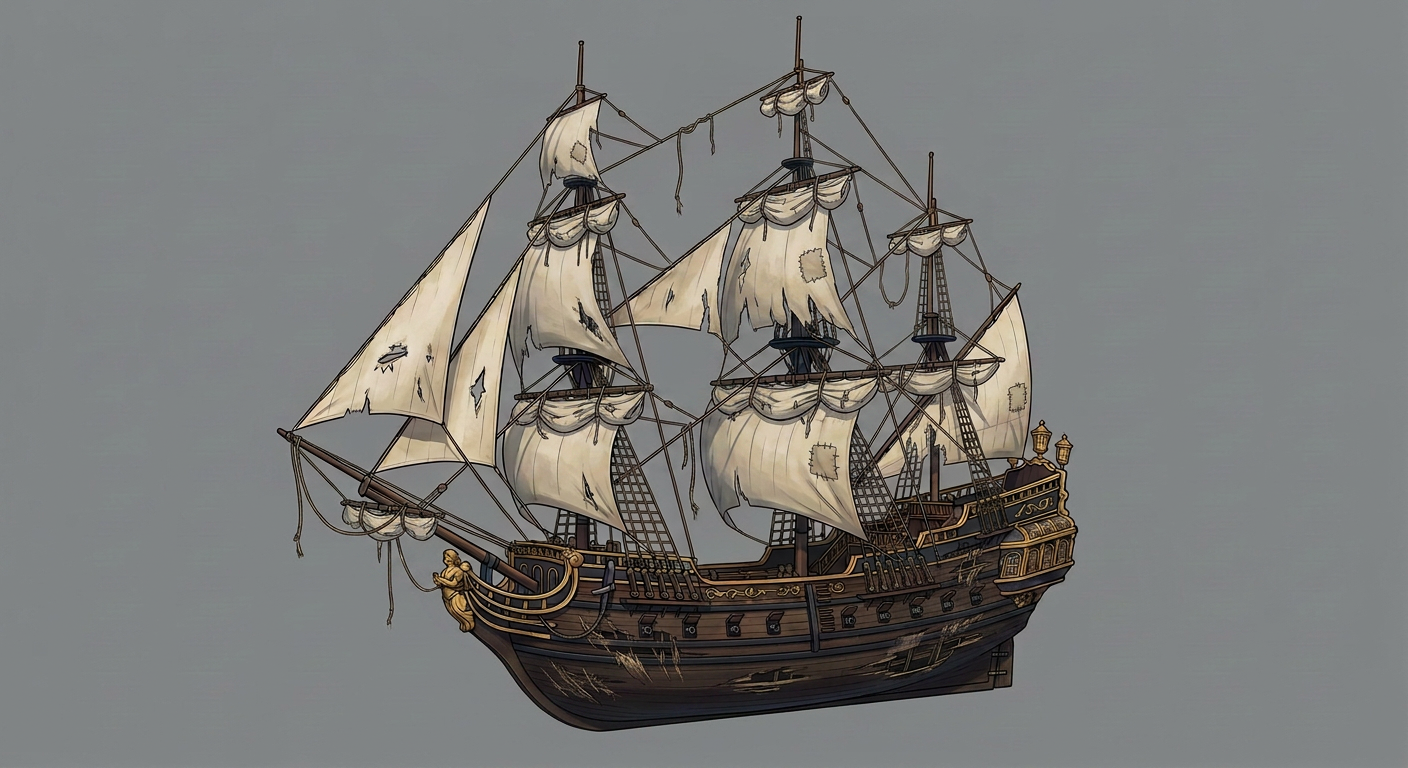
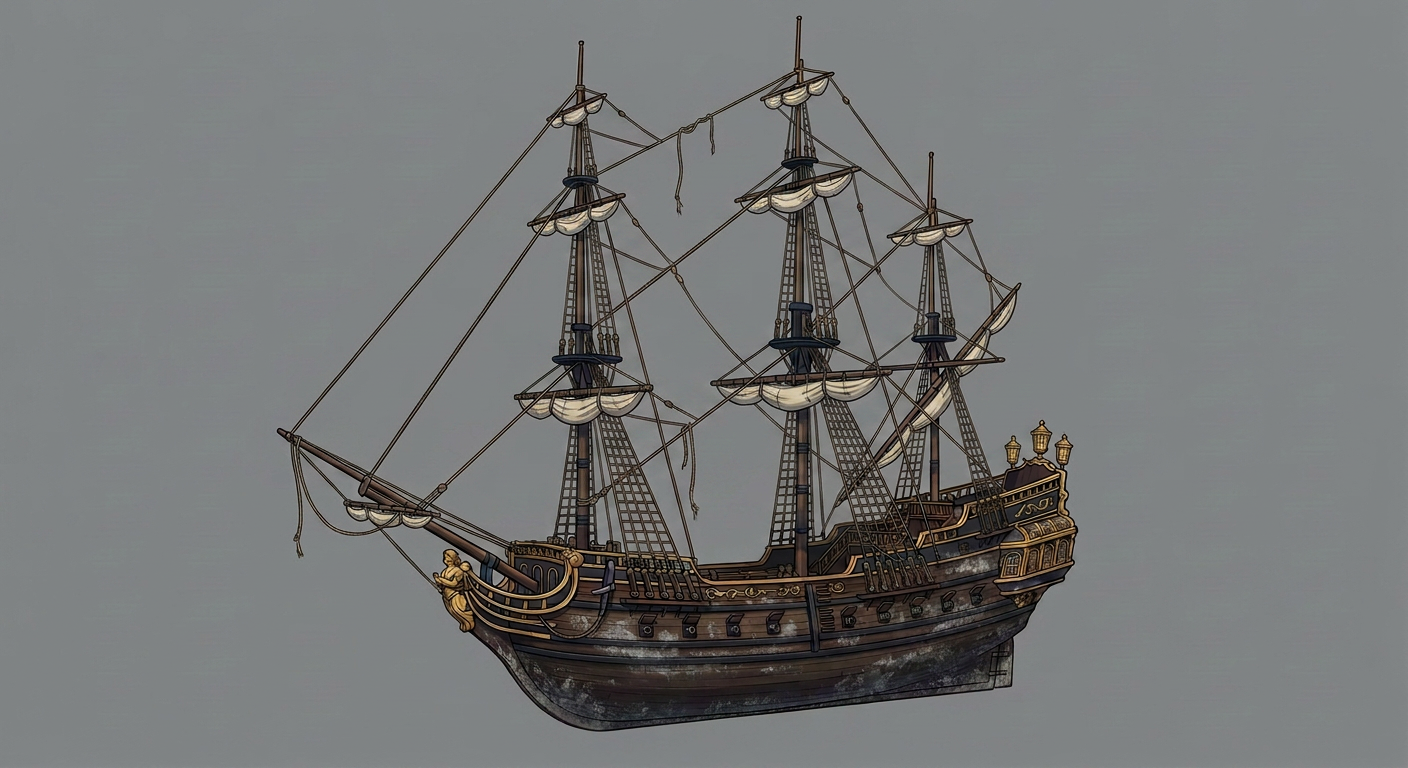
Fix sails-closed states; add mesh normalisation
SAILS-CLOSED FIX
All three closed states carried full canvas. "Sails FURLED and stowed tight
to the yards" is the correct nautical term and it FAILED — the model read
*furled* as *gathered*, not *stowed*, and returned a fully-canvassed ship.
Three plates and three meshes were wasted before it was caught.

The fix describes the visual RESULT instead of naming the manoeuvre, and
needs the explicit negative ("NOT a ship under sail") to hold. It is now the
shared STOWED clause in build_ladder_workflow.py, with a comment warning
against tidying it back into nautical language.

Regenerated the 3 plates chained off the already-shipped master and open
states (uploaded as LoadImage refs) so they match rather than drifting off a
re-rolled master, then meshed only those 3. 8/8 subjects now correct.

MESH NORMALISATION
Tripo returns meshes at arbitrary scale — FOUR distinct ones observed across
this ladder, needing correction factors from x0.68 to x16.4. The turntable
hides it by auto-framing per mesh, so it would have surfaced as ships
jumping size when swapping damage states at runtime.

normalize_meshes.py uniform-scales on fore-aft LENGTH, which is the right
invariant for a damage ladder: a ship loses masts and canvas as it degrades,
but hull length does not change. Evidence it is correct: after normalising
length to 10.0, mast height lands in 7.69..8.32 across all 8 states (7.6%
spread) with the wreck lowest.
[…]

diff --git a/pipeline/normalize_meshes.py b/pipeline/normalize_meshes.py
@@ -1,0 +1,120 @@
+#!/usr/bin/env python3
+"""
+Normalise Tripo GLB output to a canonical scale and origin.
+
+WHY
+---
+Tripo returns meshes at inconsistent scales. Measured across one galleon ladder:
+
+    galleon__01-pristine__sails-closed    6.02 x 12.00 x 15.11
+    galleon__02-light__sails-open         5.79 x 12.00 x 14.78
+    galleon__03-moderate__sails-open      3.26 x  8.00 x  9.78
+    the other five                       ~1.2  x  2.50 x  ~3.2
+
+Those Y values (12.00 / 8.00 / 2.50) are suspiciously round, so Tripo is
+normalising to a fixed dimension but choosing a different one per job. The
+turntable hides it because it auto-frames per mesh — but swap a damage state at
+runtime and the ship would jump size by up to 4.7x.
+
+METHOD
+------
+Uniform scale so the fore-aft LENGTH (the largest extent, Z in glTF's Y-up
+convention) equals --length. Length is the right invariant for a damage ladder:
+a ship loses masts and canvas as it degrades, so height shrinks legitimately,
+but hull length does not change.
+
+Cross-check on the galleon ladder — after normalising length to 10.0, mast
+height lands in 7.69..8.18 (a ~6% spread) across all eight states, with the
+wreck lowest. That is the expected signature of one ship at one scale, and is
+the evidence that length-normalisation is the correct invariant here.
+
+Origin: centred on X/Z, keel (min Y) placed at Y=0, so every state shares an
+anchor. NOTE: keel-at-zero is a deterministic approximation of a waterline
+anchor. A true waterline needs hull analysis; revisit if ships sit wrong in
+engine.
+
+Usage:
+    python normalize_meshes.py --src <mesh dir> --out <dir> [--length 10.0]
+"""
+
+from __future__ import annotations
+
+import argparse
+import json
+from pathlib import Path
+
+import numpy as np
+import trimesh
+
+
+def normalize(path: Path, target_length: float) -> tuple[trimesh.Scene, dict]:
+    scene = trimesh.load(path)
+    if isinstance(scene, trimesh.Trimesh):
+        scene = trimesh.Scene(scene)
+
+    before = scene.extents.copy()
+    length = float(before.max())
+    if length <= 0:
+        raise ValueError(f"{path.name}: degenerate bounding box {before}")
+
+    scale = target_length / length
+    scene.apply_transform(trimesh.transformations.scale_matrix(scale))
+
+    # centre on X/Z, keel to Y=0
+    lo, hi = scene.bounds
+    offset = np.array([
+        -(lo[0] + hi[0]) / 2.0,
+        -lo[1],
+        -(lo[2] + hi[2]) / 2.0,
+    ])
+    scene.apply_translation(offset)
+
+    after = scene.extents
+    return scene, {
+        "file": path.name,
+        "extents_before": [round(float(v), 3) for v in before],
+        "extents_after": [round(float(v), 3) for v in after],
+        "scale_applied": round(float(scale), 5),
+        "height_after": round(float(after[1]), 3),
+    }
+
+
+def main() -> int:
+    ap = argparse.ArgumentParser()
+    ap.add_argument("--src", required=True)
+    ap.add_argument("--out", required=True)
+    ap.add_argument("--length", type=float, default=10.0)
+    ap.add_argument("--report", default=None)
+    args = ap.parse_args()
+
+    src, out = Path(args.src), Path(args.out)
+    out.mkdir(parents=True, exist_ok=True)
+
+    rows = []
+    for p in sorted(src.glob("*.glb")):
+        scene, row = normalize(p, args.length)
+        scene.export(out / p.name)
+        rows.append(row)
+        print(
+            f"{p.stem:<40} x{row['scale_applied']:<8} "
+            f"{row['extents_before']} -> {row['extents_after']}"
+        )
+
+    if rows:
+        heights = [r["height_after"] for r in rows]
+        spread = (max(heights) - min(heights)) / max(heights) * 100
+        print(
+            f"\n{len(rows)} meshes at length {args.length}. "
+            f"Height {min(heights):.2f}..{max(heights):.2f} ({spread:.1f}% spread) "
+            f"— low spread confirms one ship at one scale."
+        )
+
+    if args.report:
+        with open(args.report, "w", encoding="utf-8") as fh:
+            json.dump({"target_length": args.length, "meshes": rows}, fh, indent=2)
+
+    return 0
+
+
+if __name__ == "__main__":
+    raise SystemExit(main())

diff --git a/pipeline/build_ladder_workflow.py b/pipeline/build_ladder_workflow.py
@@ -111,12 +111,29 @@ HULLS = {
 ANCHOR_STATE = "01-pristine"
 ANCHOR_RIG = "sails-open"
 
+# The sails-closed clause. EARNED THE HARD WAY — do not "tidy" this back into
+# nautical terminology. "Sails FURLED and stowed tight to the yards" is the
+# correct term and it FAILED: the model read *furled* as *gathered* and returned
+# full canvas on every yard across all three closed states, which then went on to
+# waste three Tripo meshes. Describing the visual RESULT works. Note the explicit
+# negative ("NOT a ship under sail") — the positive description alone was not
+# enough on its own.
+STOWED = (
+    "ALL SAILS ARE STOWED AWAY. Every single sail is rolled up into a tight thin bundle "
+    "lashed along the TOP of its yard-arm. NO canvas hangs below any yard. NO sail "
+    "surface is visible anywhere on the ship. The sky and the rigging show clearly "
+    "through the large empty gaps between the masts and yards where the sails used to "
+    "hang. The ship's silhouette is reduced to bare masts, bare yards and rigging only. "
+    "This is a ship at anchor with all canvas put away, NOT a ship under sail. "
+)
+
 # (state, rig, prev_or_None, damage delta). prev None => master is the previous state.
 LADDER = [
     (
         "01-pristine", "sails-closed", None,
-        "Sails FURLED and stowed tight to the yards. The ship is otherwise identical and "
-        "completely undamaged.",
+        STOWED
+        + "The hull and everything else is identical to the master and completely "
+        "undamaged.",
     ),
     (
         "02-light", "sails-open", None,
@@ -126,8 +143,9 @@ LADDER = [
     ),
     (
         "02-light", "sails-closed", ("02-light", "sails-open"),
-        "Exactly the light damage shown in reference image 2, but with the sails FURLED "
-        "and stowed tight to the yards.",
+        STOWED
+        + "The hull keeps EXACTLY the light damage shown in reference image 2 — the same "
+        "scuffing and salt staining along the planking, the same loose ropes.",
     ),
     (
         "03-moderate", "sails-open", ("02-light", "sails-open"),
@@ -137,8 +155,10 @@ LADDER = [
     ),
     (
         "03-moderate", "sails-closed", ("03-moderate", "sails-open"),
-        "Exactly the moderate damage shown in reference image 2, but with the surviving "
-        "sails FURLED and stowed.",
+        STOWED.replace("ALL SAILS ARE", "ALL SURVIVING SAILS ARE")
+        + "There is one broken spar and slack hanging rigging. The hull keeps EXACTLY the "
+        "moderate damage shown in reference image 2 — the same scorch marks and "
+        "splintered planking around the gun ports.",
     ),
     (
         "04-heavy", "sails-open", ("03-moderate", "sails-open"),
